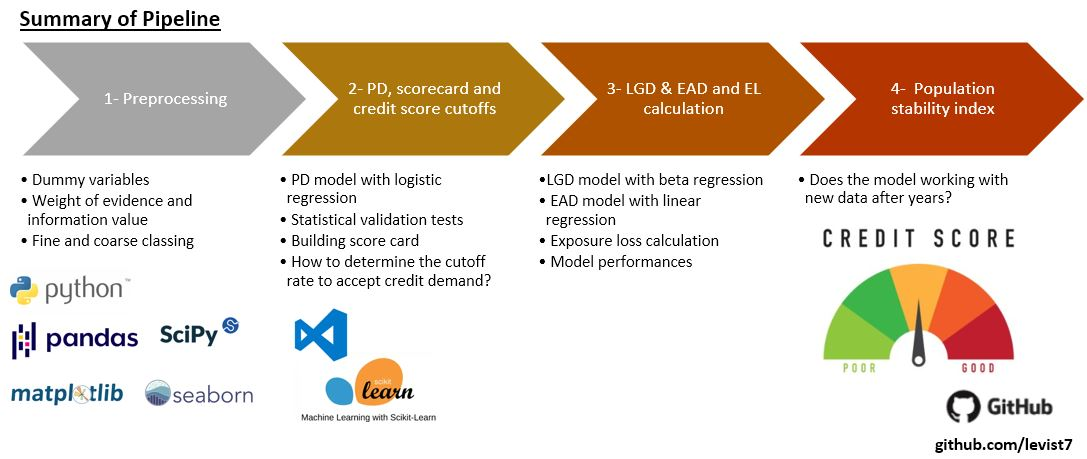
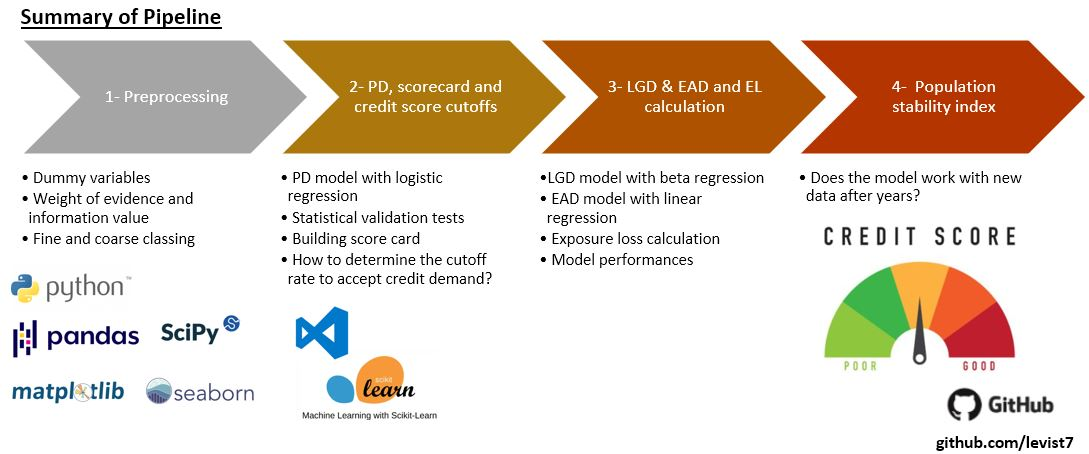
change fig + few typos

diff --git a/README.md b/README.md
@@ -22,11 +22,11 @@ Credit risk modeling is important for financial institutions. It represents the 
 
 ## Pipeline  
 
-<img src= ".pipeline_sum">
+<img src= ".pipeline_sum.jpg">
 
 ## Background
 
-Credit risk modeling is important for financial institutions. It represents the risk of borrower not being able to pay back the loan amount, credit card or other types of loans. In some cases, borrowers can pay only partial of the amount and the principal amount and interest amount are not paid. Both statistics and machine learning play an important role in handling big data and provide statistical modeling. In the recession of 2008,
+Credit risk modeling is important for financial institutions. It represents the risk of borrower not being able to pay back the loan amount, credit card or other types of loans. In some cases, borrowers can pay only partial of the amount and the principal amount and interest amount are not paid. Both statistics and machine learning play an important role in handling big data and provide statistical modeling.
 
 ## Project
 
@@ -71,7 +71,7 @@ Following models are trained for the use in our case
 
 2.  Loss given default (LGD)  
 **Model - Stage/step 1**: Logistic regression  
-**Metrics**: Accuracy: 0.572 | Area under ROC: 0.684 > 0.50  
+**Metrics**: Accuracy: 0.595 | Area under ROC: 0.640 > 0.50  
 **Model - Stage/step 2**: Linear regression  
 **Metric**: Accuracy: 0.777
 
